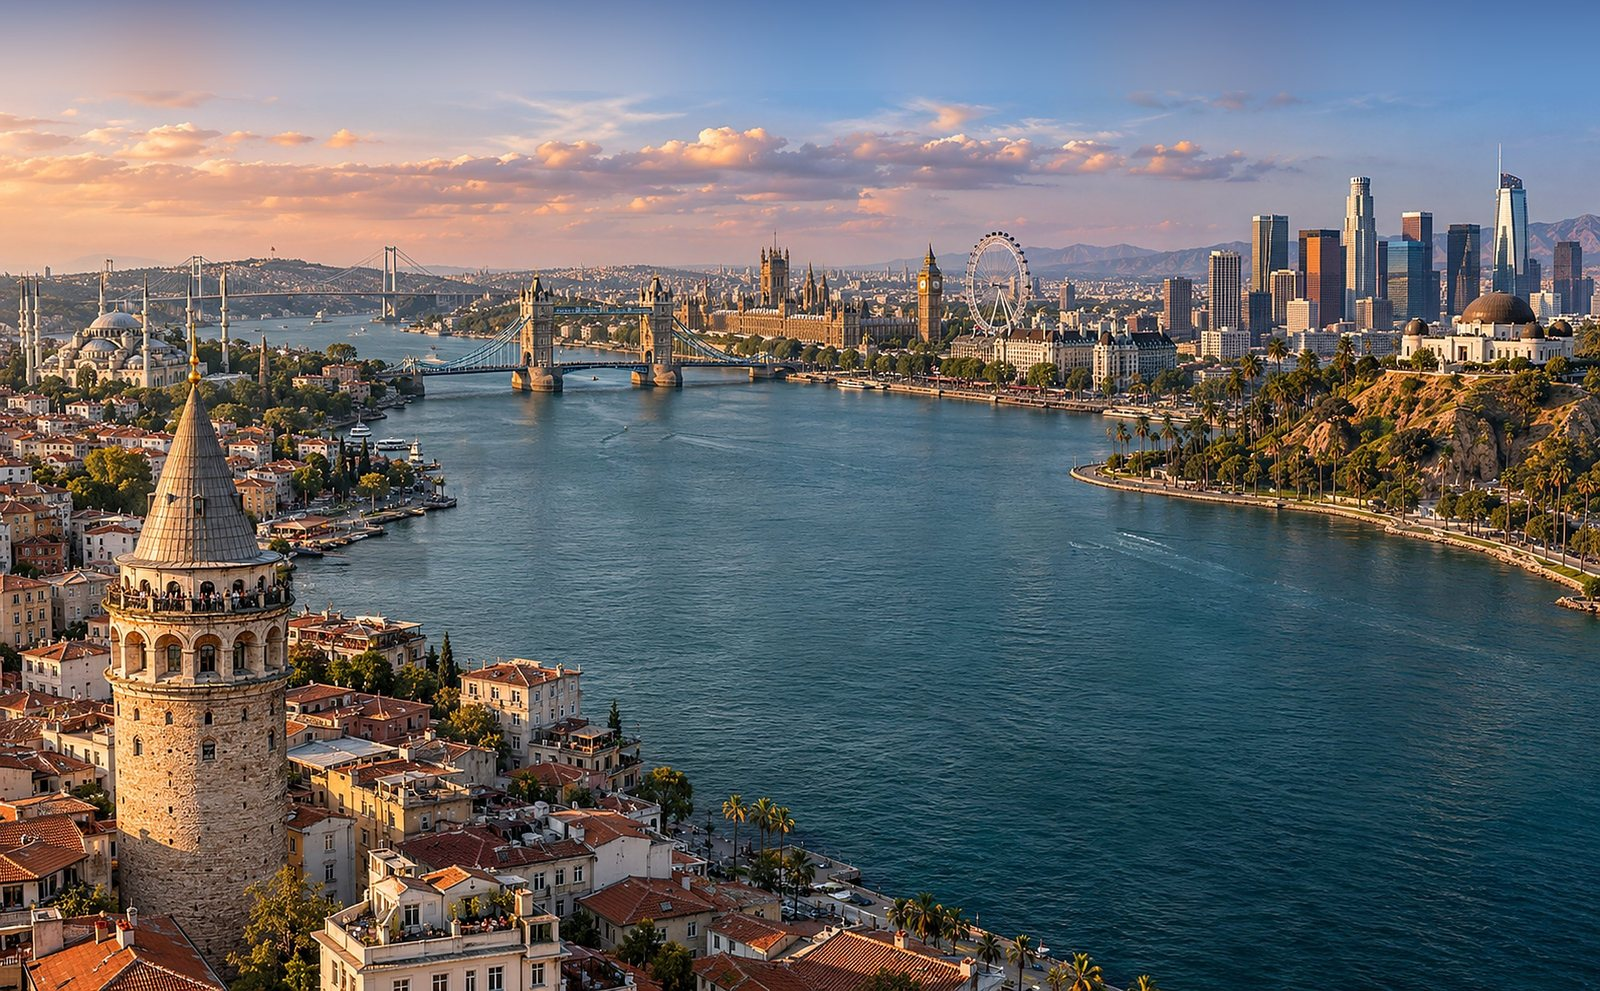
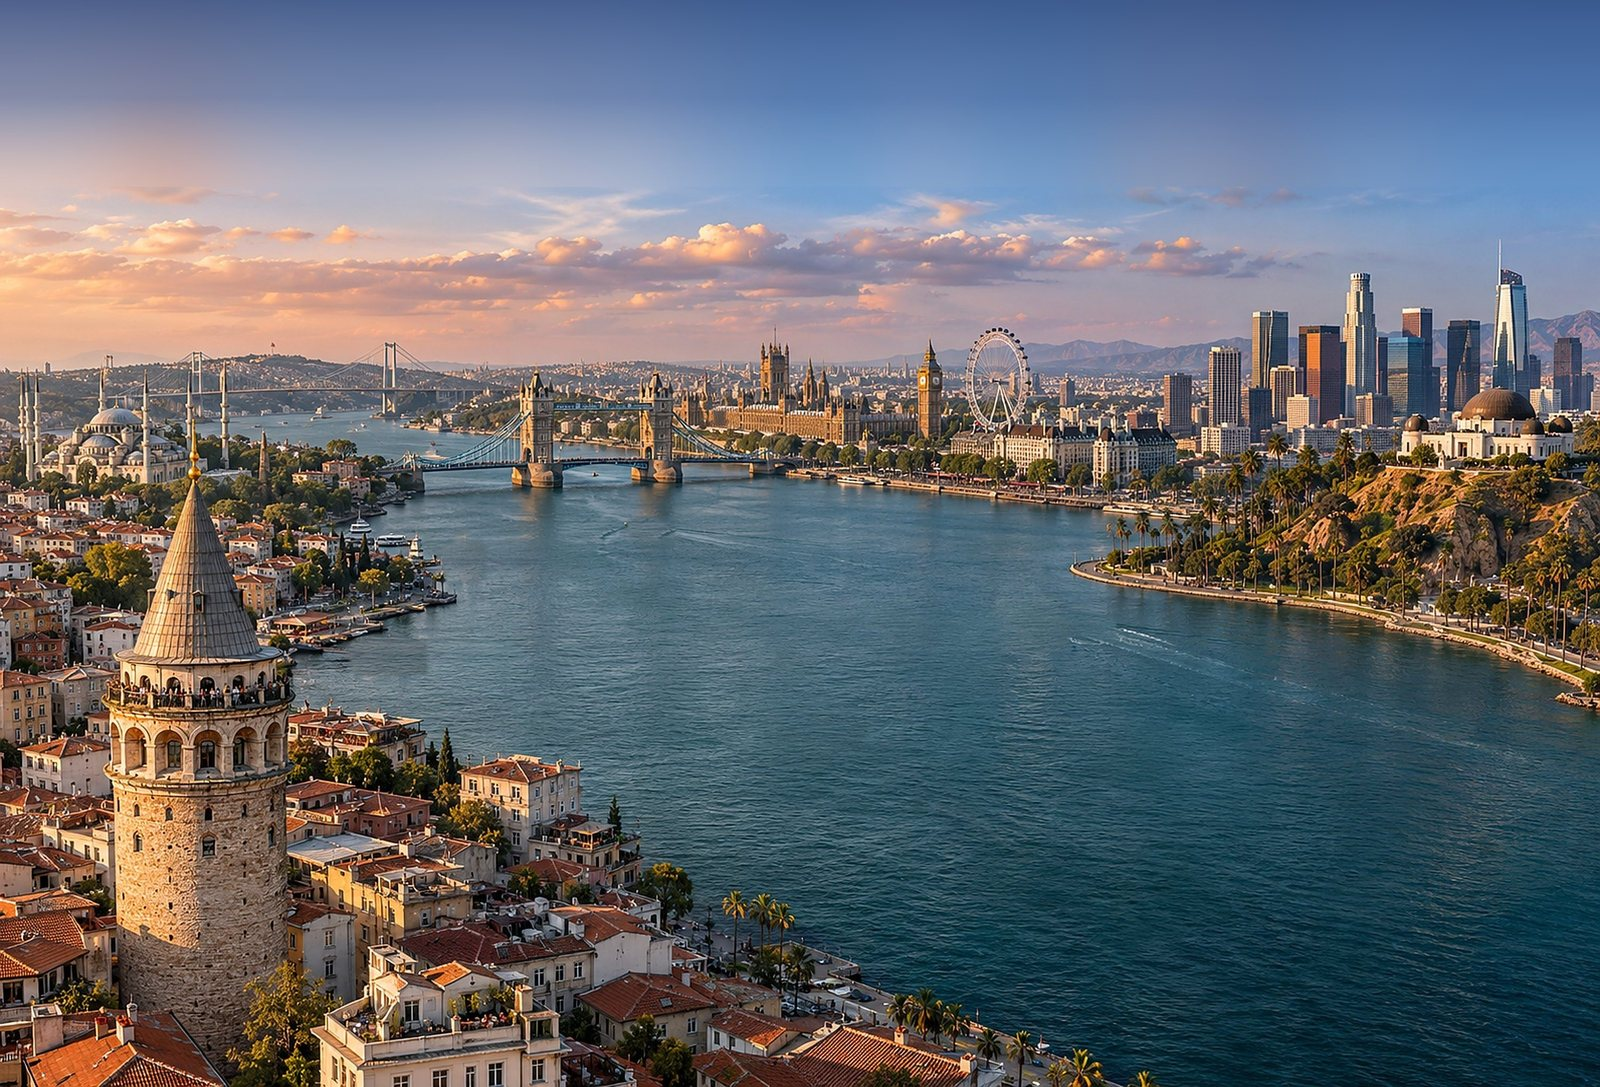
More sky on wide screens; LA tower tops always in view
Claude-Session: https://claude.ai/code/session_01WS1Ggxd3pVnHHNUyePA6WY

diff --git a/assets/home.js b/assets/home.js
@@ -9,7 +9,7 @@
   "use strict";
   var reduce = window.matchMedia && window.matchMedia("(prefers-reduced-motion: reduce)").matches;
   var root = document.documentElement, hero = document.querySelector(".hero");
-  var IMG = { w: 3000, h: 1688, pad: 170, ax: 0.5, zoom: 1.04, drop: 0.075 };   // photo + 170px of added sky on top   // matches the photo's object-fit: cover; object-position: 50% 50%
+  var IMG = { w: 3000, h: 1688, pad: 350, ax: 0.5, zoom: 1.04, drop: 0.075 };   // photo + 170px of added sky on top   // matches the photo's object-fit: cover; object-position: 50% 50%
 
   // ------------------------------------------------------------ landmarks (image coordinates)
   var LANDMARKS = [
@@ -164,7 +164,7 @@
     var W = hero.clientWidth, H = hero.clientHeight;
     IMG.ax = W / H < 1.15 ? 0.1 : 0.5;                 // narrow screens: keep Istanbul and London in view
     var s = Math.max(W / IMG.w, H / IMG.h) * IMG.zoom;
-    var drop = Math.min(H * IMG.drop, IMG.pad * s - 2);
+    var drop = Math.min(H * (W / H > 1.6 ? 0.13 : IMG.drop), IMG.pad * s - 2);   // wide screens get more sky
     var ox = (W - IMG.w * s) * IMG.ax, oy = drop;     // where the photo's own top edge lands
     var img = document.querySelector(".city");
     if (img) { var st = img.style; st.width = IMG.w * s + "px"; st.height = (IMG.h + IMG.pad) * s + "px"; st.left = ox + "px"; st.top = (oy - IMG.pad * s) + "px"; }

diff --git a/index.html b/index.html
@@ -293,6 +293,6 @@ footer { font-size: 13px; color: var(--muted); }
   <footer>Built with Claude. Hosted on GitHub Pages.</footer>
 </div>
 
-<script src="/assets/home.js?v=1795153159" defer></script>
+<script src="/assets/home.js?v=1795153447" defer></script>
 </body>
 </html>
